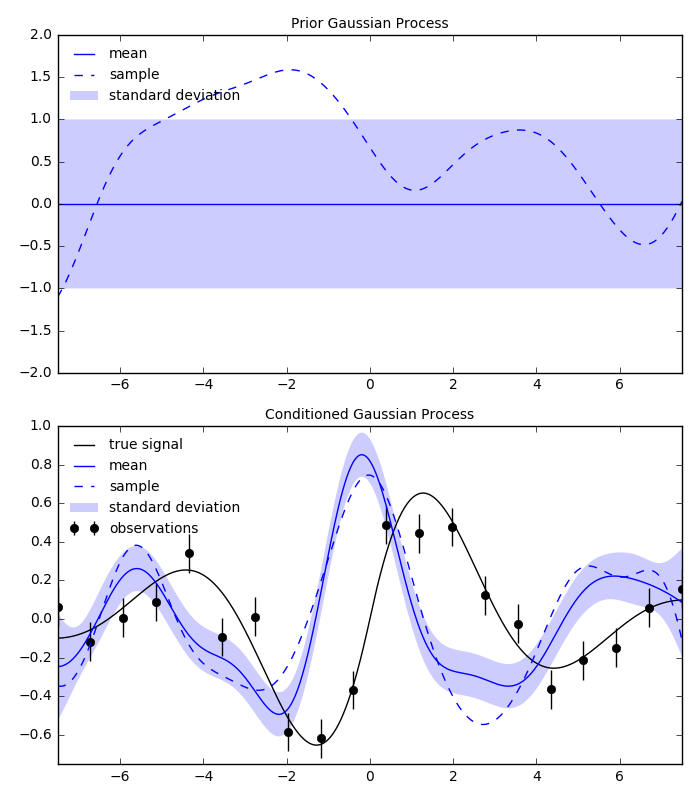
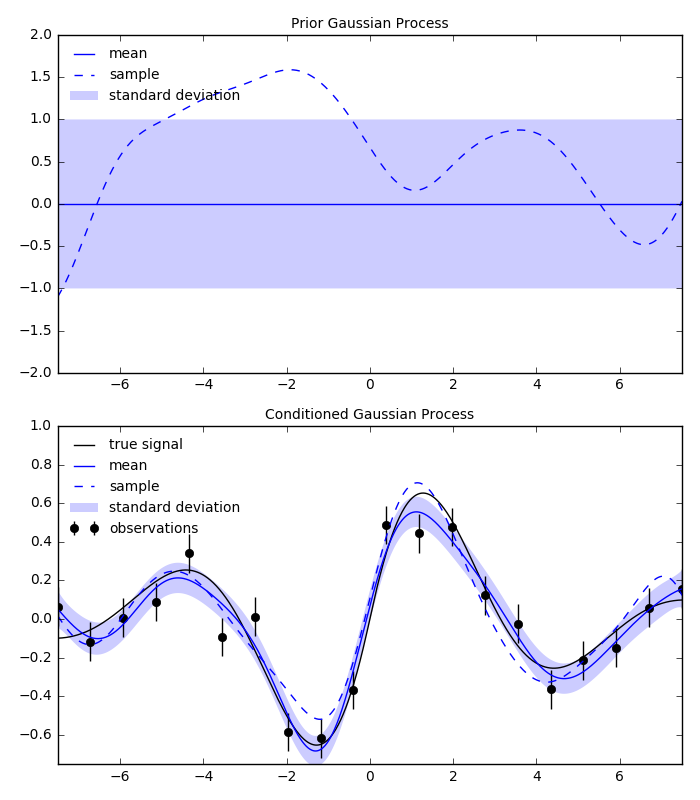
fixed broken demo

Changed region(s): [[0.06, 0.5312, 0.99, 0.9688], [0.51, 0.7188, 0.54, 0.8125]]

diff --git a/docs/scripts/gauss.a.py b/docs/scripts/gauss.a.py
@@ -18,13 +18,10 @@ d = np.exp(-0.3*np.abs(y))*np.sin(y) + np.random.normal(0.0,sigma)
 # form a prior Gaussian process which has a squared exponential basis 
 # function (rbf.basis.se), 0.0 for the mean, 1.0 for the standard 
 # deviation, and 2.0 for the characteristic length scale.
-gp = rbf.gauss.gpiso(rbf.basis.exp,(0.0,1.0,2.0)) 
+gp = rbf.gauss.gpiso(rbf.basis.se,(0.0,1.0,2.0)) 
 sample = gp.draw_sample(x[:,None]) # generate random sample
 mean,std = gp(x[:,None]) # find the mean and standard dev. at x
 gp_cond = gp.condition(y[:,None],d,sigma=sigma) # condition with data
-gp_cond = gp_cond.differentiate((1,))
-
-#print(gp_cond.is_positive_definite(x[:,None]))
 sample_cond = gp_cond.draw_sample(x[:,None]) 
 mean_cond,std_cond = gp_cond(x[:,None])  
 
